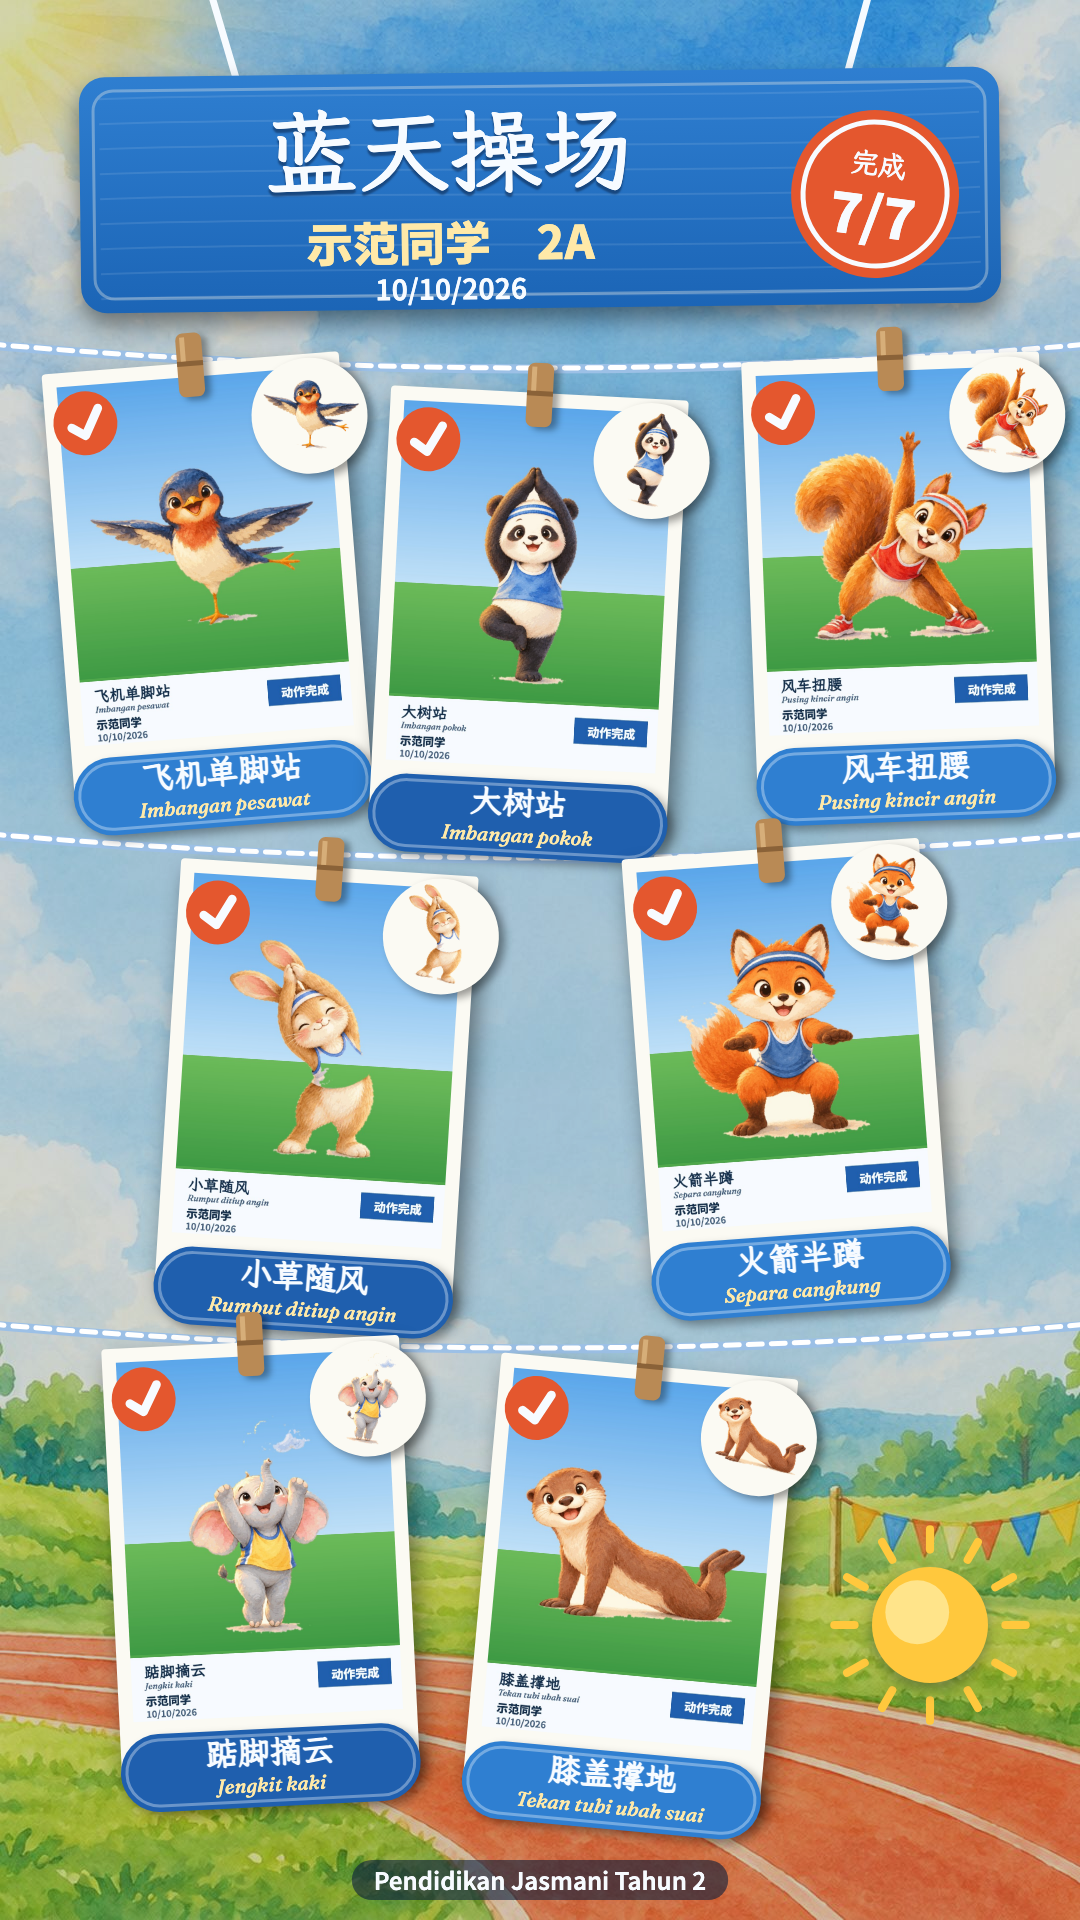
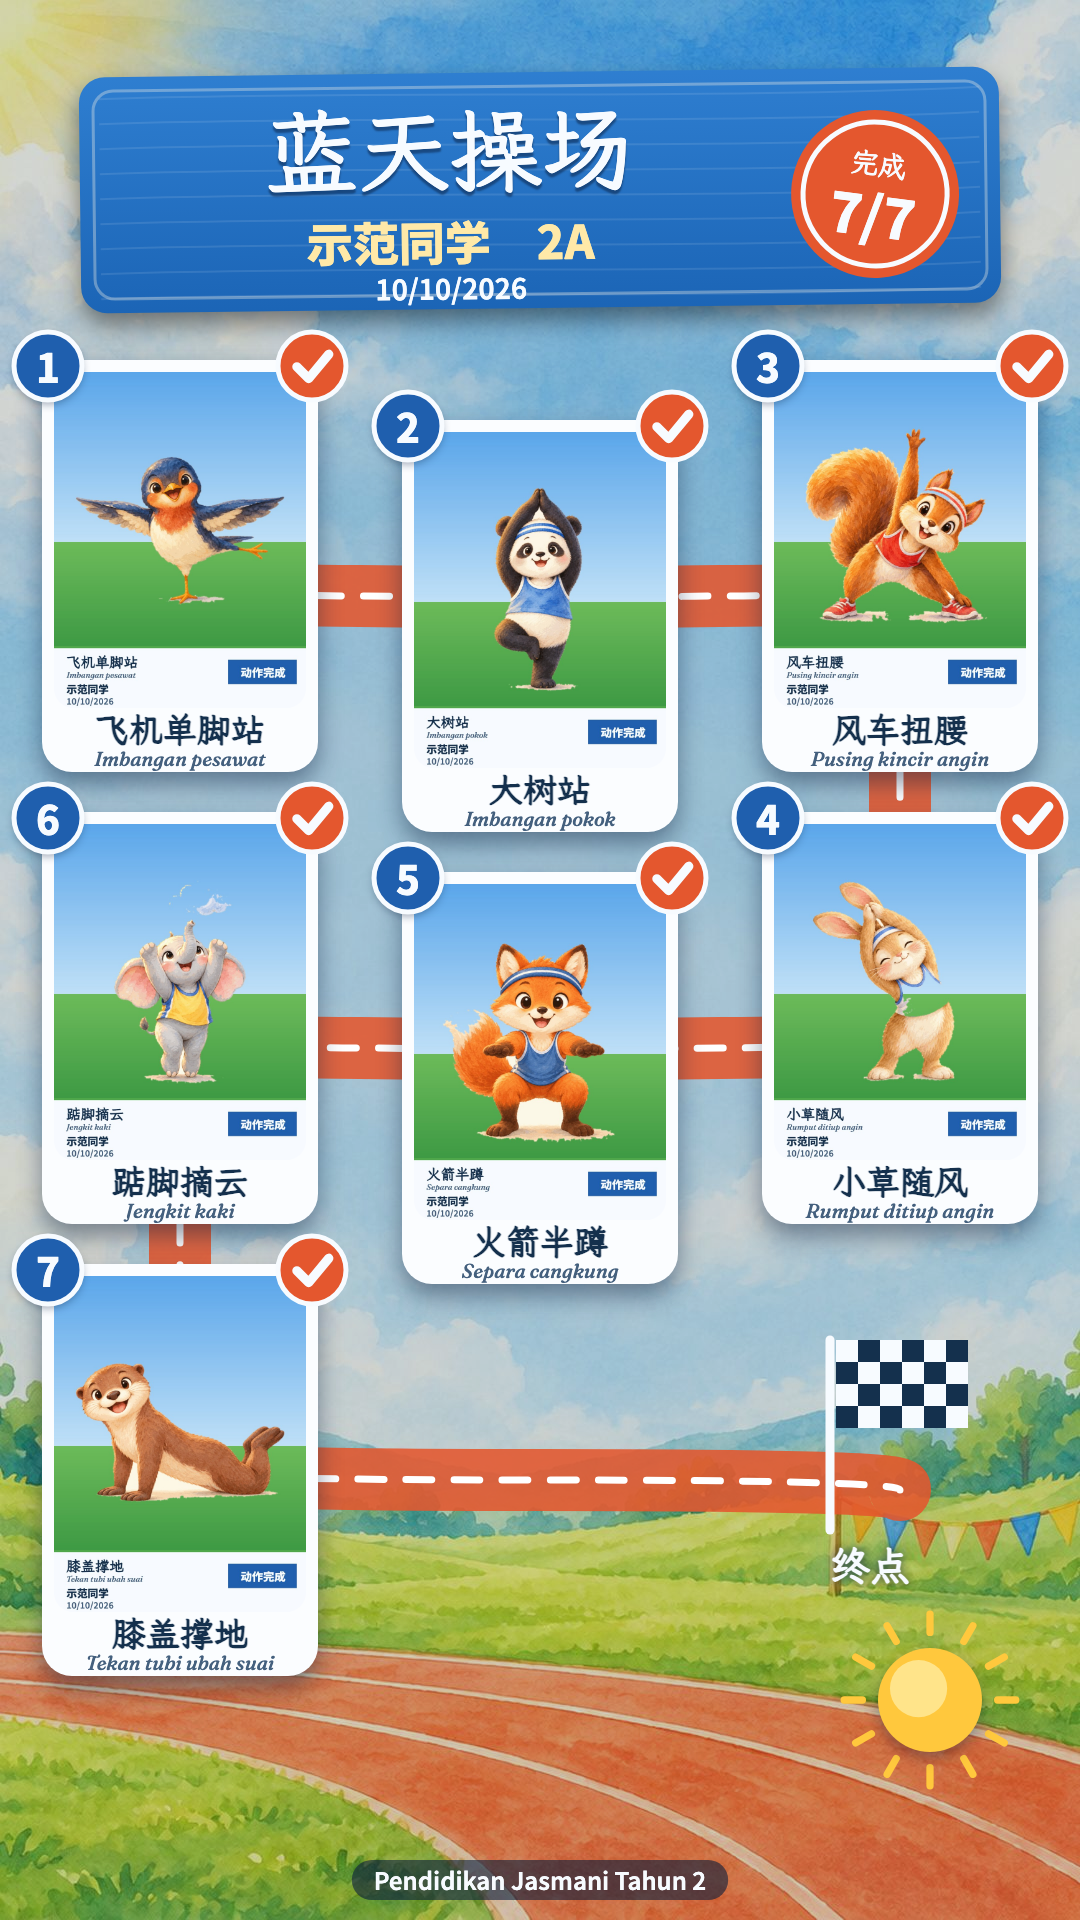
打卡卡改成「跑道关卡图」排法（不用夹子绳子，与一年级区分）

diff --git a/app.js b/app.js
@@ -689,11 +689,6 @@ $('#btn-save-one').addEventListener('click', () => {
 
 /* ═════════ 5 打卡卡：蓝天操场挂画 ═════════ */
 let cardBlob = null;
-const SEED = { // 固定种子，不是每次随机：每行的中心 x / 垂直微调 / 旋转角（-6°～6°）
-  rows: [{ ry: 345, idx: [0, 1, 2], xs: [190, 540, 890], dy: [0, 20, -6], rot: [-4.5, 3, -2.2] },
-         { ry: 835, idx: [3, 4], xs: [330, 770], dy: [8, -10], rot: [3.6, -4.2] },
-         { ry: 1325, idx: [5, 6], xs: [250, 650], dy: [-4, 14], rot: [-2.8, 5.2] }],
-};
 function drawBackdrop(ctx, W, H) {
   const bg = ART['card-bg'];
   if (bg) {
@@ -714,25 +709,6 @@ function drawBackdrop(ctx, W, H) {
     ctx.lineTo(W, H); ctx.lineTo(0, H); ctx.fill();
   }
 }
-function ropeY(ry, x, W) { const t = x / W; return ry + 96 * t * (1 - t); }
-function drawRope(ctx, ry, W) {
-  ctx.save(); ctx.lineCap = 'round';
-  ctx.strokeStyle = '#9CC0E6'; ctx.lineWidth = 9; ctx.beginPath(); ctx.moveTo(-10, ry); ctx.quadraticCurveTo(W / 2, ry + 48, W + 10, ry); ctx.stroke();
-  ctx.strokeStyle = '#FFFFFF'; ctx.lineWidth = 5; ctx.setLineDash([14, 9]); ctx.beginPath(); ctx.moveTo(-10, ry - 1); ctx.quadraticCurveTo(W / 2, ry + 47, W + 10, ry - 1); ctx.stroke();
-  ctx.restore();
-}
-function drawClip(ctx) { // 木夹子（原点＝夹住相片上缘中心）
-  ctx.save(); ctx.shadowColor = 'rgba(0,0,0,.35)'; ctx.shadowBlur = 6; ctx.shadowOffsetY = 3;
-  ctx.fillStyle = '#B98A55'; roundRect(ctx, -13, -30, 26, 64, 7); ctx.fill(); ctx.shadowColor = 'transparent';
-  ctx.fillStyle = '#8A6238'; ctx.fillRect(-13, -2, 26, 5); ctx.fillStyle = '#D6AE79'; ctx.fillRect(-9, -26, 5, 24);
-  ctx.restore();
-}
-function cloudLabel(ctx, cx, cy, w, h, fill) { // 圆角名牌
-  ctx.save(); ctx.translate(cx, cy); ctx.shadowColor = 'rgba(0,0,0,.35)'; ctx.shadowBlur = 10; ctx.shadowOffsetY = 5;
-  ctx.fillStyle = fill; roundRect(ctx, -w / 2, -h / 2, w, h, h / 2); ctx.fill();
-  ctx.shadowColor = 'transparent'; ctx.strokeStyle = 'rgba(247,251,255,.35)'; ctx.lineWidth = 3; roundRect(ctx, -w / 2 + 6, -h / 2 + 6, w - 12, h - 12, h / 2 - 6); ctx.stroke();
-  ctx.restore();
-}
 function drawSun(ctx, cx, cy, r) {
   ctx.save(); ctx.translate(cx, cy);
   ctx.strokeStyle = C.sun; ctx.lineWidth = r * .14; ctx.lineCap = 'round';
@@ -750,8 +726,7 @@ async function buildCard() {
   drawBackdrop(ctx, W, H);
   const doneN = Object.keys(S.photos).length;
 
-  // 标题牌：两条细绳吊着
-  ctx.strokeStyle = '#F7FBFF'; ctx.lineWidth = 7; ctx.beginPath(); ctx.moveTo(210, -10); ctx.lineTo(236, 78); ctx.moveTo(870, -10); ctx.lineTo(846, 78); ctx.stroke();
+  // 标题牌
   ctx.save(); ctx.translate(540, 190); ctx.rotate(-0.012);
   ctx.shadowColor = 'rgba(0,0,0,.45)'; ctx.shadowBlur = 24; ctx.shadowOffsetY = 12;
   const wood = ctx.createLinearGradient(0, -125, 0, 125); wood.addColorStop(0, '#2F7FD1'); wood.addColorStop(1, '#1B64B5');
@@ -771,40 +746,46 @@ async function buildCard() {
   ctx.font = `800 54px ${F_SANS}`; ctx.fillText(`${doneN}/${MOVES.length}`, 0, 22);
   ctx.restore();
 
-  for (const row of SEED.rows) drawRope(ctx, row.ry, W);
-  for (const row of SEED.rows) {
-    for (let k = 0; k < row.idx.length; k++) {
-      const a = MOVES[row.idx[k]], p = S.photos[a.id];
-      const cx = row.xs[k], topY = ropeY(row.ry, cx, W) + 4 + row.dy[k], rot = row.rot[k] * Math.PI / 180;
-      const PW = 270, PH = 360, BX = 14, BT = 14, BB = 56, OW = PW + 2 * BX, OH = PH + BT + BB;
-      ctx.save(); ctx.translate(cx, topY); ctx.rotate(rot);
-      // 拍立得白边
-      ctx.shadowColor = 'rgba(0,0,0,.45)'; ctx.shadowBlur = 22; ctx.shadowOffsetX = 6; ctx.shadowOffsetY = 12;
-      ctx.globalAlpha = p ? 1 : 0.55; ctx.fillStyle = '#FBFAF3'; roundRect(ctx, -OW / 2, 0, OW, OH, 4); ctx.fill(); ctx.shadowColor = 'transparent';
-      const px = -PW / 2, py = BT;
-      if (p) {
-        const img = await loadImg(p.url);
-        ctx.drawImage(img, px, py, PW, PH);
-        // 贴纸：动作小图
-        ctx.save(); ctx.translate(OW / 2 - 34, 62); ctx.rotate(0.18); ctx.shadowColor = 'rgba(0,0,0,.4)'; ctx.shadowBlur = 8; ctx.shadowOffsetY = 4;
-        ctx.fillStyle = '#FBFAF3'; ctx.beginPath(); ctx.arc(0, 0, 58, 0, Math.PI * 2); ctx.fill(); ctx.shadowColor = 'transparent'; drawArt(ctx, a.id, -50, -50, 100, 100); ctx.restore();
-        // 完成章
-        ctx.save(); ctx.translate(-OW / 2 + 40, 52); ctx.rotate(-0.2); ctx.fillStyle = C.track; ctx.beginPath(); ctx.arc(0, 0, 32, 0, Math.PI * 2); ctx.fill(); drawCheck(ctx, 0, 0, 40, C.cloud); ctx.restore();
-      } else {
-        ctx.fillStyle = 'rgba(18,62,115,.5)'; ctx.fillRect(px, py, PW, PH);
-        const g = grayArt(a.id); ctx.globalAlpha = .42; if (g) ctx.drawImage(g, px + 25, py + 52, PW - 50, PW - 50); else drawArt(ctx, a.id, px + 25, py + 52, PW - 50, PW - 50);
-        ctx.globalAlpha = 1; ctx.fillStyle = C.cloud; ctx.font = `700 44px ${F_KAI}`; ctx.shadowColor = 'rgba(0,0,0,.6)'; ctx.shadowBlur = 6; ctx.fillText('未完成', 0, py + PH - 46); ctx.shadowColor = 'transparent';
-      }
-      ctx.globalAlpha = 1;
-      // 名牌
-      cloudLabel(ctx, 0, OH - 4, 300, 78, p ? (row.idx[k] % 2 ? C.blue : '#2F7FD1') : '#5C7592');
-      ctx.fillStyle = C.cloud; ctx.font = `700 32px ${F_KAI}`; fitText(ctx, a.zh, 0, OH - 18, 230);
-      ctx.fillStyle = '#FFE9A8'; ctx.font = `italic 500 20px ${F_MS}`; fitText(ctx, a.ms, 0, OH + 14, 240);
-      drawClip(ctx);
-      ctx.restore();
+  // 跑道关卡图：7 个相框蛇形排列（1→2→3，4←5←6 倒着走，7 在左下），一条虚线跑道依序穿过，终点是旗子和太阳
+  const FW = 276, PW = 252, PH = 336, FH = 12 + PH + 64, XS = [180, 540, 900], YS = [360, 812, 1264], WAVE = [0, 60, 0];
+  const SLOTS = [[0, 0], [0, 1], [0, 2], [1, 2], [1, 1], [1, 0], [2, 0]]; // 第 i 个动作的 [行, 列]
+  const pos = SLOTS.map(([r, c]) => ({ x: XS[c], y: YS[r] + WAVE[c] }));
+  const track = [...pos.map((q) => ({ x: q.x, y: q.y + FH / 2 })), { x: 900, y: 1490 }];
+  ctx.save(); ctx.lineCap = 'round'; ctx.lineJoin = 'round';
+  const path = () => { ctx.beginPath(); ctx.moveTo(track[0].x, track[0].y); for (let i = 1; i < track.length; i++) { const a = track[i - 1], b = track[i], mx = (a.x + b.x) / 2, my = (a.y + b.y) / 2; ctx.quadraticCurveTo(a.x, my, mx, my); ctx.quadraticCurveTo(b.x, my, b.x, b.y); } };
+  path(); ctx.strokeStyle = 'rgba(228,87,46,.88)'; ctx.lineWidth = 62; ctx.stroke();        // 跑道
+  path(); ctx.strokeStyle = '#FFFFFF'; ctx.lineWidth = 7; ctx.setLineDash([26, 22]); ctx.stroke(); // 分道线
+  ctx.restore();
+  for (let k = 0; k < MOVES.length; k++) {
+    const a = MOVES[k], p = S.photos[a.id], { x: cx, y: top } = pos[k];
+    ctx.save(); ctx.translate(cx, top);
+    ctx.shadowColor = 'rgba(8,28,60,.45)'; ctx.shadowBlur = 24; ctx.shadowOffsetY = 12;
+    ctx.fillStyle = '#FBFDFF'; roundRect(ctx, -FW / 2, 0, FW, FH, 30); ctx.fill(); ctx.shadowColor = 'transparent';
+    const px = -PW / 2, py = 12;
+    ctx.save(); roundRect(ctx, px, py, PW, PH, 20); ctx.clip();
+    if (p) { ctx.drawImage(await loadImg(p.url), px, py, PW, PH); }
+    else {
+      ctx.fillStyle = '#C9DCEE'; ctx.fillRect(px, py, PW, PH);
+      const g = grayArt(a.id); ctx.globalAlpha = .5; if (g) ctx.drawImage(g, px + 20, py + 60, PW - 40, PW - 40); else drawArt(ctx, a.id, px + 20, py + 60, PW - 40, PW - 40);
+      ctx.globalAlpha = 1; ctx.fillStyle = '#44607E'; ctx.font = `700 40px ${F_KAI}`; ctx.fillText('未完成', 0, py + PH - 40);
     }
+    ctx.restore();
+    ctx.fillStyle = C.ink; ctx.font = `700 34px ${F_KAI}`; fitText(ctx, a.zh, 0, 12 + PH + 24, FW - 30);
+    ctx.fillStyle = '#44607E'; ctx.font = `italic 500 20px ${F_MS}`; fitText(ctx, a.ms, 0, 12 + PH + 52, FW - 30);
+    // 关卡号（左上）与完成章（右上）
+    ctx.shadowColor = 'rgba(8,28,60,.4)'; ctx.shadowBlur = 8; ctx.shadowOffsetY = 4;
+    ctx.fillStyle = C.blue; ctx.beginPath(); ctx.arc(-FW / 2 + 6, 6, 34, 0, Math.PI * 2); ctx.fill(); ctx.shadowColor = 'transparent';
+    ctx.strokeStyle = C.cloud; ctx.lineWidth = 5; ctx.stroke();
+    ctx.fillStyle = C.cloud; ctx.font = `800 40px ${F_SANS}`; ctx.fillText(String(k + 1), -FW / 2 + 6, 8);
+    if (p) { ctx.fillStyle = C.track; ctx.beginPath(); ctx.arc(FW / 2 - 6, 6, 34, 0, Math.PI * 2); ctx.fill(); ctx.strokeStyle = C.cloud; ctx.lineWidth = 5; ctx.stroke(); drawCheck(ctx, FW / 2 - 6, 6, 42, C.cloud); }
+    ctx.restore();
   }
-  drawSun(ctx, 930, 1625, 58);
+  // 终点：旗杆＋格子旗
+  ctx.save(); ctx.translate(900, 1490);
+  ctx.strokeStyle = '#F7FBFF'; ctx.lineWidth = 9; ctx.lineCap = 'round'; ctx.beginPath(); ctx.moveTo(-70, 40); ctx.lineTo(-70, -150); ctx.stroke();
+  for (let r = 0; r < 4; r++) for (let c = 0; c < 6; c++) { ctx.fillStyle = (r + c) % 2 ? '#14304D' : '#F7FBFF'; ctx.fillRect(-64 + c * 22, -150 + r * 22, 22, 22); }
+  ctx.fillStyle = C.cloud; ctx.font = `700 40px ${F_KAI}`; ctx.shadowColor = 'rgba(8,28,60,.7)'; ctx.shadowBlur = 8; ctx.textAlign = 'left'; ctx.fillText('终点', -70, 78); ctx.restore(); ctx.textAlign = 'center';
+  drawSun(ctx, 930, 1700, 52);
   // 底部小字页脚
   ctx.font = `600 24px ${F_SANS}`; const ft = 'Pendidikan Jasmani Tahun 2', fw = ctx.measureText(ft).width + 44;
   ctx.fillStyle = 'rgba(8,28,60,.6)'; roundRect(ctx, 540 - fw / 2, 1860, fw, 40, 20); ctx.fill();
